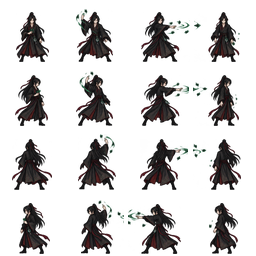
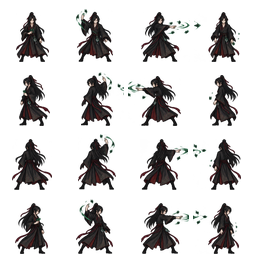
fix(fang-yuan): corrige sprite invertido ao andar para a esquerda e para a direita
Os quatro masters novos vêm com as linhas laterais trocadas: a 1ª linha
lateral é o perfil DIREITO e a 4ª é o ESQUERDO, mas o atlas publicado mantém
a ordem do resto do elenco (baixo, esquerda, cima, direita). Resultado em jogo:
andar para a esquerda desenhava o personagem virado para a direita e
vice-versa — na caminhada e também nas poses de conjuração, arremetida e queda.

- `scripts/build-sprite-atlases.py`: novo `row_map` em `build_grid`, com
  `FANG_YUAN_MASTER_ROWS = [0, 3, 2, 1]` aplicado às quatro poses e ao retrato
  32px. Nenhum atlas de NPC, mob ou boss muda.
- Nova checagem `check_side_rows` roda logo após montar cada atlas: mede de que
  lado está o rosto (área clara no terço superior) e falha a geração se a linha
  de esquerda não olhar para a esquerda. Testado contra um atlas montado sem a
  troca: acusou `linha 1 deveria olhar para left, veio right`.
- Atlas das quatro poses e o retrato foram regenerados; as linhas 2 e 4 dos
  masters continuam intactas, só mudaram de lugar na saída.
- Docs: `art/source/README.md`, `art/source/fang-yuan-poses.json`
  (`master_direction_order`) e comentário em `fangYuanPoses.ts` registram que a
  ordem de origem é down/right/up/left e que a publicação é down/left/up/right.
- Teste novo em `tests/fangYuanPoses.test.mjs` trava a troca, a validação e a
  ordem publicada.

`npm run check`: 225/225. `npm run build`: ok.

diff --git a/src/entities/fangYuanPoses.ts b/src/entities/fangYuanPoses.ts
@@ -10,7 +10,9 @@ import type { CardinalDirection } from './directions';
  */
 export type FangYuanPose = 'walk' | 'cast' | 'dash' | 'down';
 
-// Ordem do animation.json enviado: não é a mesma ordem das direções de entrada.
+// Ordem das linhas dos ATLAS publicados (igual a NPCs, mobs e bosses).
+// Os masters enviados vêm com as laterais trocadas (down, right, up, left): quem
+// faz a troca é `scripts/build-sprite-atlases.py` (FANG_YUAN_MASTER_ROWS).
 export const FANG_YUAN_FRAME_DIRECTIONS: readonly CardinalDirection[] = ['down', 'left', 'up', 'right'];
 export const FANG_YUAN_FRAMES_PER_DIRECTION = 4;
 

diff --git a/scripts/build-sprite-atlases.py b/scripts/build-sprite-atlases.py
@@ -69,22 +69,73 @@ def feet_center_x(frame: Image.Image, band: float = 0.2) -> float:
     return sum(columns) / len(columns) if columns else width / 2
 
 
+def facing_side(atlas_path: Path, cell: int, row: int) -> str | None:
+    """Lado para onde o personagem olha num quadro de uma linha lateral do atlas.
+
+    O rosto é a área clara (pele) no terço superior do quadro. Comparar a média
+    horizontal dela com o centro do corpo revela o lado: serve para conferir que a
+    linha `left` não acabou com o desenho virado para a direita — foi exatamente o
+    defeito que o usuário viu ao andar, quando as linhas 2 e 4 dos masters novos
+    vieram invertidas.
+
+    Devolve `None` quando não há pele visível (linhas de frente e de costas).
+    """
+    atlas = Image.open(atlas_path).convert('RGBA')
+    frame = atlas.crop((0, row * cell, cell, row * cell + cell))
+    pixels = [(x, y, red + green + blue)
+              for y in range(cell) for x in range(cell)
+              for red, green, blue, alpha in [frame.getpixel((x, y))] if alpha > 60]
+    if not pixels:
+        return None
+    rows = [pixel[1] for pixel in pixels]
+    head_limit = min(rows) + 0.30 * (max(rows) - min(rows))
+    skin = [pixel for pixel in pixels if pixel[1] < head_limit and pixel[2] > 3 * 105]
+    if not skin:
+        return None
+    face = sum(pixel[0] for pixel in skin) / len(skin)
+    body = sum(pixel[0] for pixel in pixels) / len(pixels)
+    if face > body + 2:
+        return 'right'
+    if face < body - 2:
+        return 'left'
+    return None
+
+
+def check_side_rows(atlas_path: Path, cell: int, label: str) -> None:
+    """Falha a geração se as linhas laterais do atlas não olharem para o lado certo."""
+    expected = {1: 'left', 3: 'right'}
+    for row, side in expected.items():
+        found = facing_side(atlas_path, cell, row)
+        if found != side:
+            raise ValueError(f'{label}: linha {row} deveria olhar para {side}, veio {found}')
+    print(f'{label}: linhas laterais olham para o lado certo (esquerda na 2ª, direita na 4ª)')
+
+
 def build_grid(name: str, source_file: str, dest_file: str, cols: int, rows: int,
                size: int, body_height: int, body_width: int, scale: float | None = None,
                crop_to_subject: bool = True, stride: int = MASTER_CELL,
-               x_start: int = 0, feet_anchor: bool = False) -> float:
+               x_start: int = 0, feet_anchor: bool = False,
+               row_map: list[int] | None = None) -> float:
     """Monta um atlas de grade. `scale` compartilhado mantém o corpo do mesmo tamanho
-    entre poses; quando omitido, o fator é calculado só com este atlas."""
+    entre poses; quando omitido, o fator é calculado só com este atlas.
+
+    `row_map` reordena as linhas do master na saída (ex.: o desenho vem em
+    down/right/up/left e o atlas do jogo é down/left/up/right). Sem ele a ordem é a mesma.
+    """
     source = Image.open(SOURCE / source_file).convert('RGBA')
     row_ranges = rows_from_alpha(source, x_start, cols * stride, rows)
     frames = [[subject(source, row_ranges[row], col, stride, x_start) for col in range(cols)]
               for row in range(rows)]
+    order = row_map if row_map is not None else list(range(rows))
+    if sorted(order) != list(range(rows)):
+        raise ValueError(f'{name}: row_map inválido para {rows} linhas: {order}')
     if scale is None:
         widest = max(frame.width for line in frames for frame in line)
         tallest = max(frame.height for line in frames for frame in line)
         scale = min(body_height / tallest, body_width / widest)
     atlas = Image.new('RGBA', (cols * size, rows * size))
-    for row, line in enumerate(frames):
+    for row, master_row in enumerate(order):
+        line = frames[master_row]
         for col, frame in enumerate(line):
             if crop_to_subject:
                 width = max(1, round(frame.width * scale))
@@ -152,6 +203,12 @@ FANG_YUAN_MASTERS = {
     'down': 'fang-yuan-down-4dir-4frames-master.png',
 }
 
+# Os masters novos desenham as linhas como baixo, DIREITA, cima, esquerda — o inverso
+# do atlas do jogo (baixo, esquerda, cima, direita). Sem esta troca o personagem anda
+# para a esquerda com o sprite virado para a direita (e vice-versa) nas quatro poses.
+# Conferido olhando o lado do rosto em cada linha: 1ª linha = direita, 4ª = esquerda.
+FANG_YUAN_MASTER_ROWS = [0, 3, 2, 1]
+
 
 if __name__ == '__main__':
     scale = fang_yuan_scale()
@@ -159,11 +216,12 @@ if __name__ == '__main__':
     for pose, source_file in FANG_YUAN_MASTERS.items():
         build_grid(f'Fang Yuan ({pose})', source_file,
                    f'characters/fang-yuan-{pose}-64.png', 4, 4, 64, 56, 60, scale,
-                   feet_anchor=True)
+                   feet_anchor=True, row_map=FANG_YUAN_MASTER_ROWS)
+        check_side_rows(DEST / f'characters/fang-yuan-{pose}-64.png', 64, f'Fang Yuan ({pose})')
     # Retrato do painel: mesma pose, quadro 32px, 4×4 (o CSS usa 256px de fundo).
     build_grid('Fang Yuan (retrato)', FANG_YUAN_MASTERS['walk'],
                'characters/fang-yuan-walk-32.png', 4, 4, 32, 28, 30, scale,
-               feet_anchor=True)
+               feet_anchor=True, row_map=FANG_YUAN_MASTER_ROWS)
     build_grid('NPCs', 'npc-static-4dir-master.png',
                'npcs/npc-static-4dir-64.png', 4, 10, 64, 58, 60, stride=192, x_start=576)
     build_grid('mobs', 'mob-static-4dir-master.png',

diff --git a/art/source/README.md b/art/source/README.md
@@ -26,9 +26,17 @@ As três últimas linhas dos mobs continuam **somente arte**, sem atributos.
 | `fang-yuan-dash-4dir-4frames-master.png` | arremetida | Gu de movimento |
 | `fang-yuan-down-4dir-4frames-master.png` | queda | morte do herói, travada até o respawn |
 
-Todas são grades 4×4 de 480px (linhas `down`, `left`, `up`, `right`) e são
-escaladas por **um único fator** (o maior quadro entre as quatro), então o corpo
-não muda de tamanho ao trocar de animação. Detalhes em `fang-yuan-poses.json`.
+Todas são grades 4×4 de 480px e são escaladas por **um único fator** (o maior
+quadro entre as quatro), então o corpo não muda de tamanho ao trocar de animação.
+Detalhes em `fang-yuan-poses.json`.
+
+**Atenção à ordem das linhas:** os quatro masters vêm desenhados como
+`down`, **`right`**, `up`, **`left`**, e o atlas publicado usa
+`down`, `left`, `up`, `right` — a mesma ordem dos NPCs, mobs e bosses. O script
+troca as linhas 2 e 4 (`FANG_YUAN_MASTER_ROWS = [0, 3, 2, 1]`) e, depois de
+montar cada atlas, confere pelo lado do rosto se a linha lateral realmente olha
+para o lado que diz olhar (`check_side_rows`). Sem a troca, andar para a esquerda
+mostrava o sprite virado para a direita.
 
 ## Partículas de Gu
 
